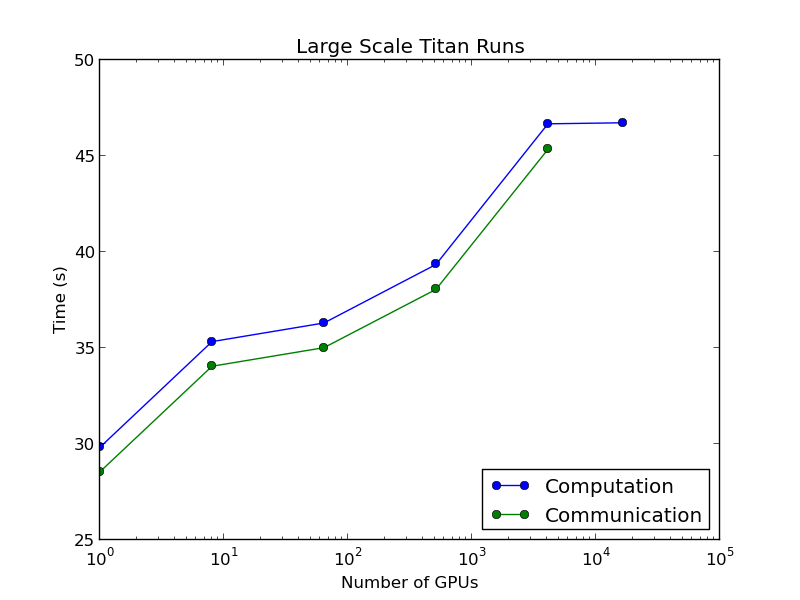
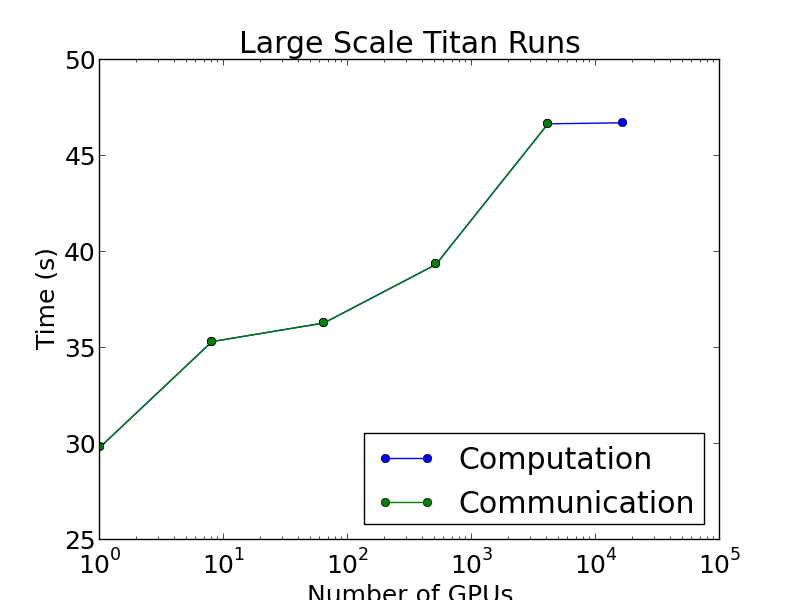
Minor updates to plots
git-svn-id: https://svn.mcs.anl.gov/repos/NEKCEM/trunk@1954 df63514b-fc50-0410-8a93-94e60f5a2dad

Former-commit-id: fb92e10e7f077f3cd8835b9df4f67bf8232adcc5

diff --git a/examples/gpu_scale/data/titanLargeScalePlot.py b/examples/gpu_scale/data/titanLargeScalePlot.py
@@ -7,9 +7,11 @@ from numpy.lib.recfunctions import append_fields
 
 saveIn=sys.argv[1]
 result=np.loadtxt('timing_comp_titan_large_GPU',dtype=[('No',np.int),('ele',np.int),('time',np.float)])
-resultComm=np.loadtxt('timing_comm_titan_large_GPU',dtype=[('No',np.int),('ele',np.int),('time',np.float)])
+resultComm=np.loadtxt('timing_comp_titan_large_GPU',dtype=[('No',np.int),('ele',np.int),('time',np.float)])
+
+plt.gcf().subplots_adjust(bottom=0.15)
 #!!! Change font here
-plt.rcParams.update({'font.size': 12})
+plt.rcParams.update({'font.size': 18})
 
 #!!! Change file type here
 fileExtension='.png'
@@ -28,8 +30,9 @@ plt.xscale('log')
 plt.yscale('log')
 plt.xlabel('Number of GPUs')
 plt.ylabel('Time (s)')
-plt.ylim([20,160])
+plt.ylim([14,160])
 plt.title('Large Scale Titan Runs')
+plt.legend(loc='lower right',prop={'size':15})
 save='plots/titanLargeScale'
 if saveIn == '0':
     plt.savefig(save+fileExtension)
@@ -78,44 +81,44 @@ else:
 #
 #---------------------------------------------
 
-plt.clf()
+# plt.clf()
 
-plt.plot(newResult['No'][newResult['work'] == 1],newResult['time'][newResult['work'] == 1],'-o',label='Computation')
+# plt.plot(newResult['No'][newResult['work'] == 1],newResult['time'][newResult['work'] == 1],'-o',label='Computation')
 
-plt.plot(newResultComm['No'][newResultComm['work'] == 1],newResultComm['time'][newResultComm['work'] == 1],'-o',label='Communication')
+# plt.plot(newResultComm['No'][newResultComm['work'] == 1],newResultComm['time'][newResultComm['work'] == 1],'-o',label='Communication')
 
-plt.legend(loc='lower right')
-plt.xscale('log')
-#plt.yscale('log')
-plt.xlabel('Number of GPUs')
-plt.ylabel('Time (s)')
-plt.title('Large Scale Titan Runs')
-save='plots/titanLargeScale_comm'
-if saveIn == '0':
-    plt.savefig(save+fileExtension)
-else:
-    plt.show()
+# plt.legend(loc='lower right')
+# plt.xscale('log')
+# #plt.yscale('log')
+# plt.xlabel('Number of GPUs')
+# plt.ylabel('Time (s)')
+# plt.title('Large Scale Titan Runs')
+# save='plots/titanLargeScale_comm'
+# if saveIn == '0':
+#     plt.savefig(save+fileExtension)
+# else:
+#     plt.show()
 
-#--------------------------------------------
-#
-# Comp/comm weak scaling plot - loglog
-#
-#---------------------------------------------
+# #--------------------------------------------
+# #
+# # Comp/comm weak scaling plot - loglog
+# #
+# #---------------------------------------------
 
-plt.clf()
+# plt.clf()
 
-plt.plot(newResult['No'][newResult['work'] == 1],newResult['time'][newResult['work'] == 1],'-o',label='Computation')
+# plt.plot(newResult['No'][newResult['work'] == 1],newResult['time'][newResult['work'] == 1],'-o',label='Computation')
 
-plt.plot(newResultComm['No'][newResultComm['work'] == 1],newResultComm['time'][newResultComm['work'] == 1],'-o',label='Communication')
+# plt.plot(newResultComm['No'][newResultComm['work'] == 1],newResultComm['time'][newResultComm['work'] == 1],'-o',label='Communication')
 
-plt.legend(loc='lower right')
-plt.xscale('log')
-plt.yscale('log')
-plt.xlabel('Number of GPUs')
-plt.ylabel('Time (s)')
-plt.title('Large Scale Titan Runs')
-save='plots/titanLargeScale_commLogLog'
-if saveIn == '0':
-    plt.savefig(save+fileExtension)
-else:
-    plt.show()
+# plt.legend(loc='lower right')
+# plt.xscale('log')
+# plt.yscale('log')
+# plt.xlabel('Number of GPUs')
+# plt.ylabel('Time (s)')
+# plt.title('Large Scale Titan Runs')
+# save='plots/titanLargeScale_commLogLog'
+# if saveIn == '0':
+#     plt.savefig(save+fileExtension)
+# else:
+#     plt.show()
